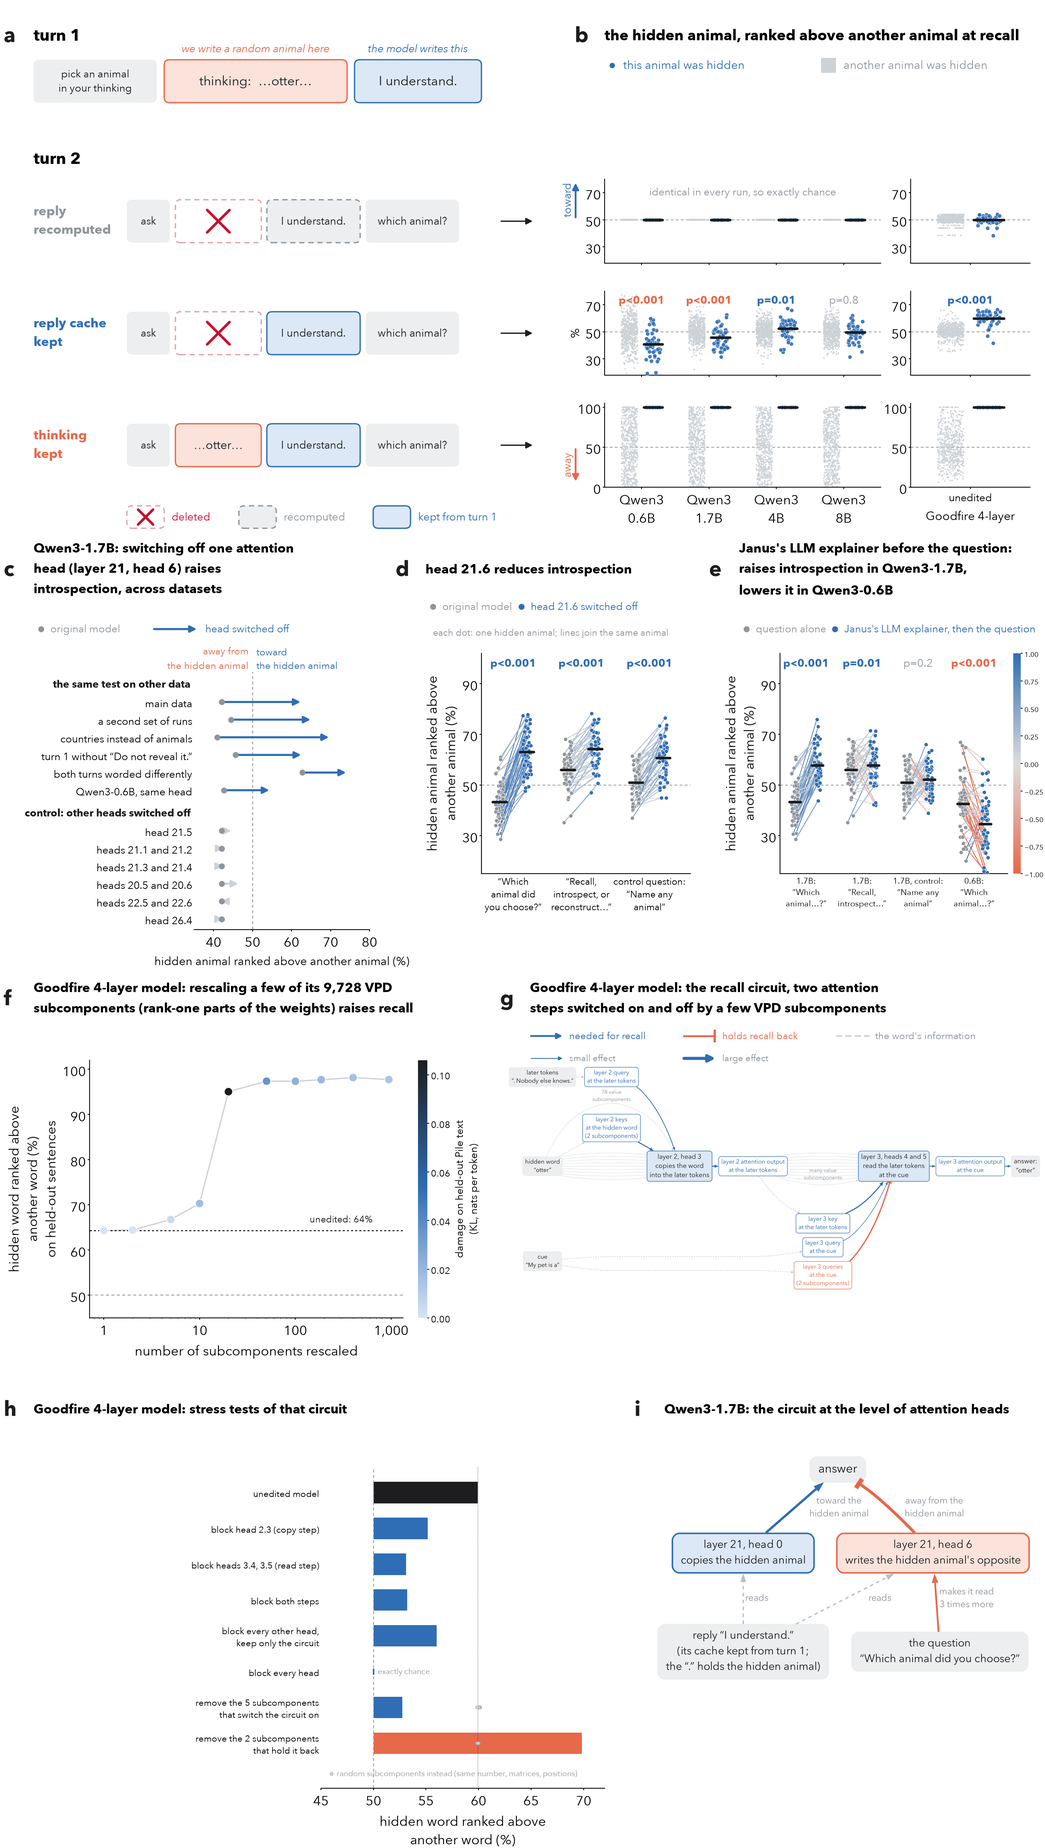
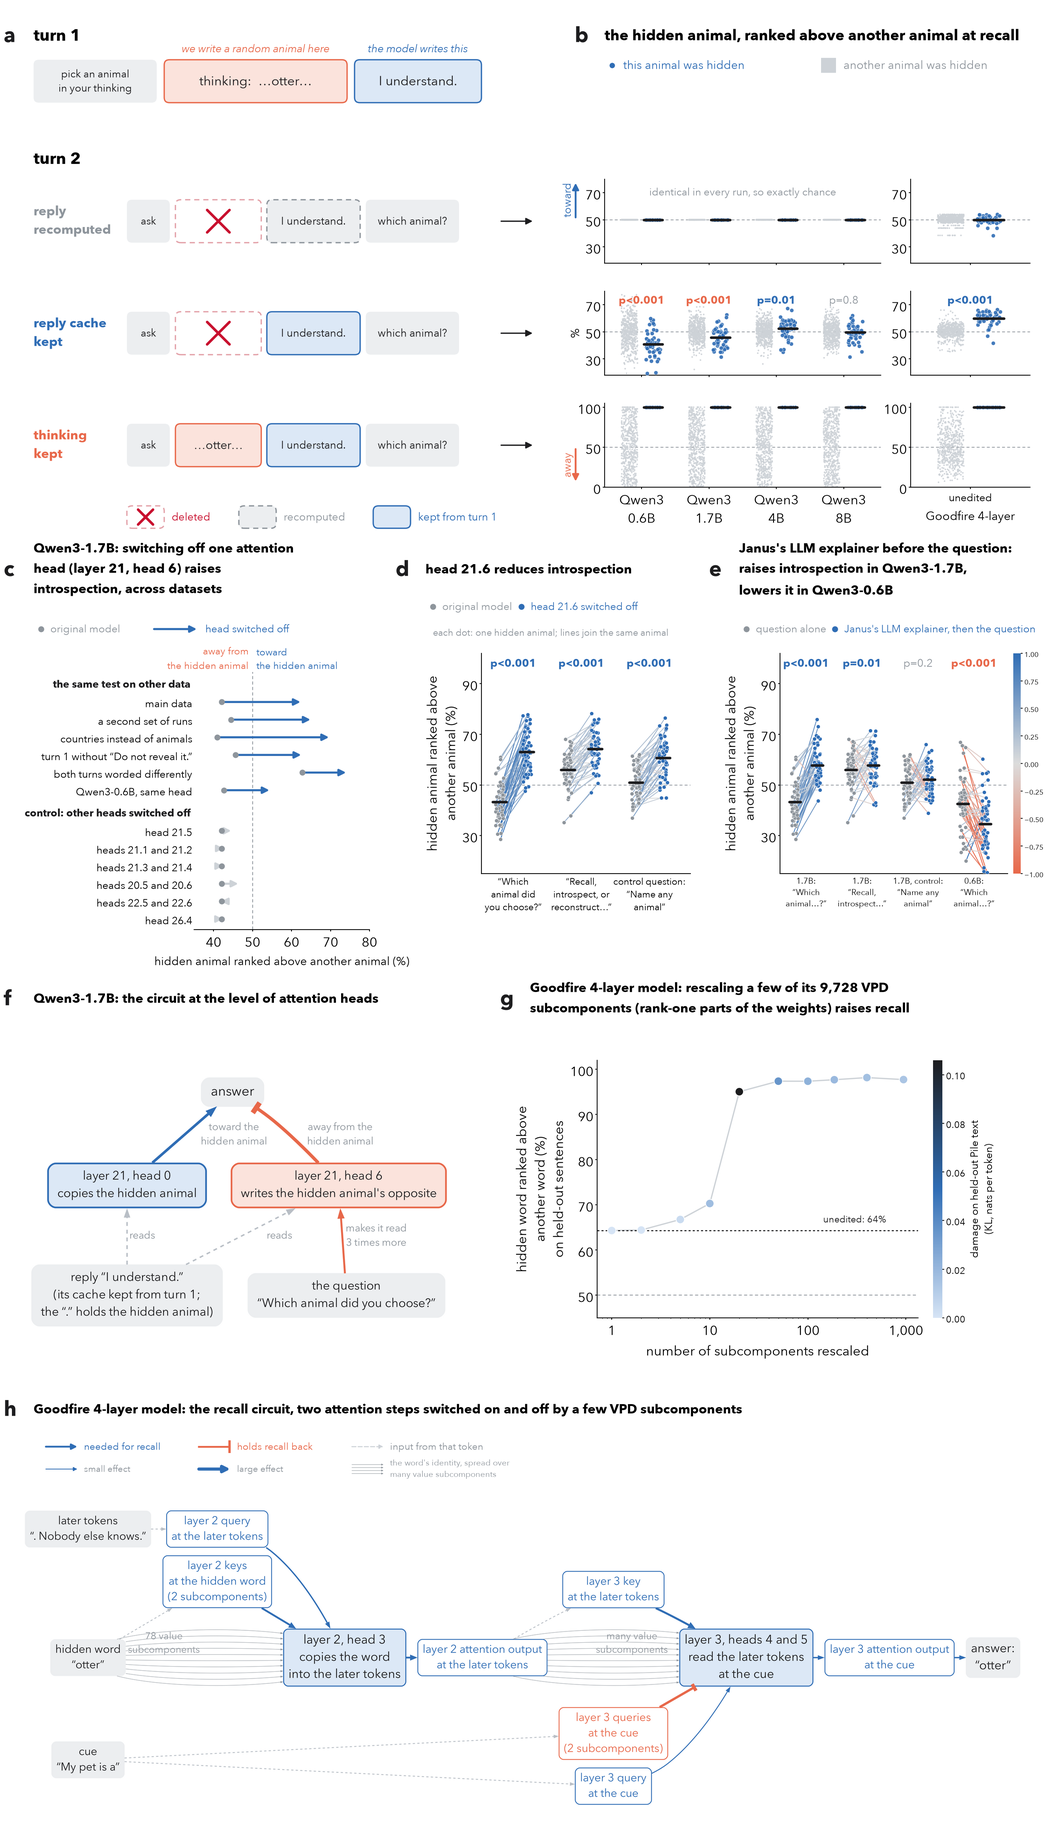
Main figure: Qwen3-1.7B head circuit beside the 4-layer subcomponent curve; the 4-layer recall circuit across the full width with a visual key and a bundle of arrows for the spread-out word identity; stress-test panel removed (the tests refine the circuit, not the figure)

diff --git a/figure_main.py b/figure_main.py
@@ -1,15 +1,15 @@
-"""The main figure, three rows.
+"""The main figure, four rows.
   a-b  the experiment, and per model the share of other animals the hidden animal is ranked above at recall (each
        animal relative to its mean over runs; 50% = chance) in each condition; last column: the same three conditions in
        plain text on Goodfire's 4-layer model
   c-e  Qwen3-1.7B: layer 21 head 6 switched off across datasets, with other heads as controls; per hidden animal, each
-       question with the head and without it; each question alone and after Janus's LLM explainer
-  f-g  Goodfire's 4-layer model: the fewest VPD subcomponents that raise recall on held-out sentences, against damage on
-       held-out Pile text; which subcomponents of one such edit carry it
+       question with the head and without it; each question alone and after Janus's LLM explainer (and Qwen3-0.6B)
+  f-g  the Qwen3-1.7B head circuit; the fewest VPD subcomponents of Goodfire's 4-layer model that raise recall
+  h    the 4-layer recall circuit (Graphviz, circuit_dot.py)
 Paired p-values: sign flips (t statistic) of each run's paired difference in the hidden animal's log P relative to
 that animal's mean over runs; p against chance: re-pairing hidden animals.
 usage: figure_main.py --results R.json ... --text4l T.json --flip figs/flip_rows.json --questions Q.npz[+Q2.npz]
-       --refit F.json ... [--parts P.json]
+       --refit F.json ... --parts attention_gates.json
 """
 import argparse
 import json
@@ -390,27 +390,32 @@ SITES = [("h.1.mlp.down_proj", "layer 1\nMLP out"), ("h.2.attn.q_proj", "layer 2
          ("h.3.attn.k_proj", "layer 3\nkey"), ("h.3.attn.v_proj", "layer 3\nvalue"), ("h.3.attn.o_proj", "layer 3\noutput")]
 
 
-def row_fourlayer(cv, refits, parts, y0):
-    """Panels f-g, Goodfire's 4-layer model, occupying [y0, y0 + ROWS[2]].
-    f: for each K, the scales of only the K largest subcomponents of a fitted edit fitted again on the training templates;
-       recall on held-out templates against K, colored by KL on held-out Pile text (fourlayer/optimize_edit.py --support)
-    g: the circuit of subcomponents behind recall in the unedited model, from measured removals
-       (fourlayer/subcomponent_circuit.py)"""
+def row_fourlayer(cv, refits, y0):
+    """Panels f-g, occupying [y0, y0 + ROWS[2]].
+    f: the Qwen3-1.7B circuit of two layer-21 heads (edit_heads.py, attention.py), drawn by Graphviz (circuit_dot.py).
+    g: Goodfire's 4-layer model, the fewest VPD subcomponents that raise recall: for each K, the scales of only the K
+       largest subcomponents of a fitted edit fitted again on the training templates; recall on held-out templates against
+       K, colored by KL on held-out Pile text (fourlayer/optimize_edit.py --support)."""
+    import circuit_dot
     top = y0 + ROWS[2]
+    cv.letter(0.1, top - 0.75, "f")
+    cv.S.text(0.9, top - 0.75, "Qwen3-1.7B: the circuit at the level of attention heads", fontsize=25, weight="bold", va="center")
+    image(cv, circuit_dot.render(circuit_dot.qwen_dot(), "figs/circuit_qwen"), 0.6, top - 1.7, 11.6, 9.0, middle=True)
+
     rows = sorted((o["support_k"], o["metrics"]) for path in refits if os.path.exists(path)
                   for o in json.load(open(path)).get("optimized", []))
     base = 100 * json.load(open(refits[0]))["unedited"]["discrimination"]
-    cv.letter(0.1, top - 0.75, "f")
-    cv.S.text(0.9, top - 0.75, "Goodfire 4-layer model: rescaling a few of its 9,728 VPD\nsubcomponents (rank-one parts of the weights) raises recall",
+    cv.letter(13.4, top - 0.75, "g")
+    cv.S.text(14.2, top - 0.75, "Goodfire 4-layer model: rescaling a few of its 9,728 VPD\nsubcomponents (rank-one parts of the weights) raises recall",
               fontsize=25, weight="bold", va="center", linespacing=1.15)
-    ax = cv.axes(2.4, y0 + 1.7, 8.4, 6.9)
+    ax = cv.axes(16.0, y0 + 1.7, 8.6, 6.9)
     ks = [k for k, _ in rows]
     ds = [100 * m["discrimination"] for _, m in rows]
     kl = np.array([m["pile_kl"] for _, m in rows])
     ax.plot(ks, ds, "-", color=CLOUD, lw=2.5, zorder=2)
     sc = ax.scatter(ks, ds, c=kl, cmap=LinearSegmentedColormap.from_list("kl", ["#d6e4f5", BLUE, INK]),
                     vmin=0, vmax=max(0.05, float(kl.max())), s=260, edgecolor="white", lw=1.5, zorder=3)
-    cb = cv.fig.colorbar(sc, cax=cv.axes(11.2, y0 + 1.7, 0.25, 6.9))
+    cb = cv.fig.colorbar(sc, cax=cv.axes(25.0, y0 + 1.7, 0.25, 6.9))
     cb.set_label("damage on held-out Pile text\n(KL, nats per token)", fontsize=20)
     cb.ax.tick_params(labelsize=18)
     cb.outline.set_visible(False)
@@ -423,120 +428,23 @@ def row_fourlayer(cv, refits, parts, y0):
     ax.set_xlabel("number of subcomponents rescaled")
     ax.set_ylabel("hidden word ranked above\nanother word (%)\non held-out sentences")
 
+
+def row_circuit(cv, parts, y0):
+    """Panel h, occupying [y0, y0 + ROWS[3]]: the 4-layer recall circuit, two attention steps and the VPD subcomponents
+    measured to switch them on or off (fourlayer/attention_gates.py, subcomponent_circuit.py), drawn by Graphviz."""
+    import circuit_dot
     if not parts or not os.path.exists(parts):
         return
-    cv.letter(13.4, top - 0.75, "g")
-    cv.S.text(14.2, top - 0.75, "Goodfire 4-layer model: the recall circuit, two attention\nsteps switched on and off by a few VPD subcomponents", fontsize=25, weight="bold",
-              va="center", linespacing=1.15)
+    top = y0 + ROWS[3]
     g = json.load(open(parts))
     screen = os.path.join(os.path.dirname(parts), "subcomponent_circuit.json")
     if os.path.exists(screen):
         g["screen"] = json.load(open(screen))["single"]
-    import circuit_dot
-    img = circuit_dot.render(circuit_dot.gates_dot(g), "figs/circuit_gates")
-    key(cv, 14.2, top - 1.75)
-    image(cv, img, 13.6, top - 2.55, 14.3, 8.3)
-
-
-def row_graph(cv, path, y0):
-    """Panels h-i, occupying [y0, y0 + ROWS[3]]: stress tests of the 4-layer circuit (fourlayer/stress_circuit.py), and
-    the Qwen3-1.7B circuit of two layer-21 heads."""
-    import circuit_dot
-    top = y0 + ROWS[3]
-    if path and os.path.exists(path):
-        r = json.load(open(path))
-        cv.letter(0.1, top - 0.75, "h")
-        cv.S.text(0.9, top - 0.75, "Goodfire 4-layer model: stress tests of that circuit", fontsize=25, weight="bold", va="center")
-        ax = cv.axes(8.6, y0 + 1.6, 7.6, 8.6)
-        rows = [("unedited model", r["recall"], None, None),
-                ("block head 2.3 (copy step)", r["routes"]["copy step blocked"], None, None),
-                ("block heads 3.4, 3.5 (read step)", r["routes"]["read step blocked"], None, None),
-                ("block both steps", r["routes"]["circuit blocked"], None, None),
-                ("block every other head,\nkeep only the circuit", r["routes"]["only the circuit open"], None, None),
-                ("block every head", r["routes"]["every route blocked"], None, None),
-                ("remove the 5 subcomponents\nthat switch the circuit on", r["needed gates removed"]["recall"],
-                 r["needed gates removed"]["random"], [v["needed gates removed"] for v in r["frames"].values()]),
-                ("remove the 2 subcomponents\nthat hold it back", r["holding gates removed"]["recall"],
-                 r["holding gates removed"]["random"], [v["holding gates removed"] for v in r["frames"].values()])]
-        for i, (lab, v, rand, frames) in enumerate(rows):
-            y = -i
-            col = INK if i == 0 else (CORAL if v > r["recall"] + 0.005 else BLUE)
-            ax.barh(y, 100 * v - 50, left=50, height=0.6, color=col, zorder=2)
-            if abs(100 * v - 50) < 0.3:
-                ax.scatter([50], [y], s=120, marker="|", color=col, lw=3, zorder=3)
-                ax.text(50.4, y, "exactly chance", fontsize=15, color=SLATE, va="center")
-            if rand:
-                ax.scatter([100 * x for x in rand], [y] * len(rand), s=40, color=CLOUD, edgecolor=SLATE, lw=0.6, zorder=3)
-        ax.set_yticks([-i for i in range(len(rows))], [lab for lab, *_ in rows], fontsize=17)
-        ax.tick_params(axis="y", length=0)
-        ax.axvline(50, color=SLATE, lw=1.5, ls=(0, (4, 3)))
-        ax.axvline(100 * r["recall"], color=INK, lw=1, ls=(0, (1, 2)))
-        ax.set_xlim(45, 72)
-        ax.set_xlabel("hidden word ranked above\nanother word (%)")
-        ax.spines["left"].set_visible(False)
-        ax.scatter([46.0], [-len(rows) + 0.15], s=40, color=CLOUD, edgecolor=SLATE, lw=0.6, clip_on=False)
-        ax.text(46.5, -len(rows) + 0.15, "random subcomponents instead (same number, matrices, positions)", fontsize=15,
-                color=SLATE, va="center")
-    cv.letter(17.0, top - 0.75, "i")
-    cv.S.text(17.8, top - 0.75, "Qwen3-1.7B: the circuit at the level of attention heads", fontsize=25, weight="bold", va="center")
-    image(cv, circuit_dot.render(circuit_dot.qwen_dot(), "figs/circuit_qwen"), 17.4, top - 1.8, 10.4, 9.0)
-
-
-def draw_circuit(ax, c, min_edge=0.2):
-    """Nodes: one subcomponent at one token position, placed by token (columns) and by layer and matrix (rows), sized by
-    how much recall changes when it is removed (blue: recall falls, coral: recall rises); links: removing the earlier
-    node lowers (blue) or raises (coral) the later node's activity, drawn when the change exceeds min_edge of its size."""
-    cols = {"frame": 1.0, "word": 5.0, "later": 10.0, "cue": 15.5}
-    names = {"frame": "frame  “My pet is a”", "word": "hidden word  “otter”",
-             "later": "later tokens  “. Nobody else knows.”", "cue": "cue  “My pet is a”"}
-    kinds = {"q_proj": ("query", 0), "k_proj": ("key", 0), "v_proj": ("value", 0), "o_proj": ("attention output", 1),
-             "c_fc": ("MLP in", 2), "down_proj": ("MLP out", 3)}
-
-    def place(node):
-        site, rest = node.split("#")
-        idx, cls = rest.split("@")
-        return cls, 4 * int(site.split(".")[1]) + kinds[site.split(".")[-1]][1], kinds[site.split(".")[-1]][0], idx
-
-    cells = {}
-    for n in c["circuit"]:
-        cls, row, _, _ = place(n)
-        cells.setdefault((cls, row), []).append(n)
-    xy = {}
-    for (cls, row), ns in cells.items():
-        for j, n in enumerate(sorted(ns)):
-            xy[n] = (cols[cls] + (j - (len(ns) - 1) / 2) * 1.55, row)
-    lost = {n: 100 * c["single"].get(n, 0.0) for n in c["circuit"]}
-    for e, v in sorted(c["edges"].items(), key=lambda kv: abs(kv[1])):
-        src, dst = e.split(" -> ")
-        if abs(v) < min_edge or src not in xy or dst not in xy:
-            continue
-        ax.annotate("", xy=xy[dst], xytext=xy[src], arrowprops=dict(arrowstyle="-|>", lw=0.8 + 3.0 * min(abs(v), 1.0),
-                    color=BLUE if v < 0 else CORAL, alpha=0.7, mutation_scale=14, shrinkA=9, shrinkB=9,
-                    connectionstyle="arc3,rad=0.12"), zorder=2)
-    for n, (x, y) in xy.items():
-        cls, row, kind, idx = place(n)
-        d = lost[n]
-        ax.scatter([x], [y], s=120 + 110 * abs(d), color=BLUE if d > 0 else CORAL, edgecolor="white", lw=1.5, zorder=4)
-        ax.text(x, y - 0.42, f"{kind} {idx}", ha="center", va="top", fontsize=13, color=INK, zorder=5)
-    for cls, x0 in cols.items():
-        ax.text(x0, -1.2, names[cls], ha="center", va="top", fontsize=17, color=SLATE)
-    for l in range(4):
-        ax.axhspan(4 * l - 0.6, 4 * l + 3.4, color="#f4f5f7" if l % 2 else "white", zorder=0)
-        ax.text(-0.6, 4 * l + 1.4, f"layer {l}", ha="right", va="center", fontsize=18, color=SLATE)
-        for lab, r in (("query / key / value", 0), ("attention output", 1), ("MLP in", 2), ("MLP out", 3)):
-            ax.text(18.3, 4 * l + r, lab, ha="left", va="center", fontsize=13, color=SLATE)
-    ax.scatter([20.6], [15.1], s=300, color=BLUE, edgecolor="white")
-    ax.text(20.9, 15.1, "removing it lowers recall", fontsize=16, color=BLUE, va="center")
-    ax.scatter([20.6], [14.3], s=300, color=CORAL, edgecolor="white")
-    ax.text(20.9, 14.3, "removing it raises recall", fontsize=16, color=CORAL, va="center")
-    ax.text(20.45, 13.5, "bigger dot: bigger change", fontsize=15, color=SLATE, va="center")
-    ax.annotate("", xy=(21.4, 12.6), xytext=(20.4, 12.6), arrowprops=dict(arrowstyle="-|>", lw=2.5, color=BLUE, mutation_scale=14))
-    ax.text(21.55, 12.6, "earlier node drives the later one", fontsize=15, color=BLUE, va="center")
-    ax.annotate("", xy=(21.4, 11.9), xytext=(20.4, 11.9), arrowprops=dict(arrowstyle="-|>", lw=2.5, color=CORAL, mutation_scale=14))
-    ax.text(21.55, 11.9, "earlier node suppresses the later one", fontsize=15, color=CORAL, va="center")
-    ax.set_xlim(-1.5, 26.4)
-    ax.set_ylim(-2.2, 15.8)
-    ax.axis("off")
+    cv.letter(0.1, top - 0.75, "h")
+    cv.S.text(0.9, top - 0.75, "Goodfire 4-layer model: the recall circuit, two attention steps switched on and off by a few VPD subcomponents",
+              fontsize=25, weight="bold", va="center")
+    key(cv, 1.2, top - 1.75)
+    image(cv, circuit_dot.render(circuit_dot.gates_dot(g), "figs/circuit_gates"), 0.6, top - 2.6, 26.8, 9.6, middle=True)
 
 
 def key(cv, x, y):
@@ -549,98 +457,30 @@ def key(cv, x, y):
     S.plot([x2 + 0.85, x2 + 0.85], [y - 0.17, y + 0.17], color=CORAL, lw=4.5, solid_capstyle="butt")
     S.text(x2 + 1.05, y, "holds recall back", fontsize=19, color=CORAL, va="center")
     x3 = x2 + 4.1
-    S.plot([x3, x3 + 0.9], [y, y], color=CLOUD, lw=3, ls=(0, (4, 2)))
-    S.text(x3 + 1.05, y, "the word's information", fontsize=19, color=SLATE, va="center")
+    S.annotate("", xy=(x3 + 0.9, y), xytext=(x3, y), arrowprops=dict(arrowstyle="-|>", lw=2, color=CLOUD,
+               ls=(0, (4, 2)), mutation_scale=16))
+    S.text(x3 + 1.05, y, "input from that token", fontsize=19, color=SLATE, va="center")
     y2 = y - 0.6
     S.annotate("", xy=(x + 0.9, y2), xytext=(x, y2), arrowprops=dict(arrowstyle="-|>", lw=1.5, color=BLUE, mutation_scale=16))
     S.text(x + 1.05, y2, "small effect", fontsize=17, color=SLATE, va="center")
     S.annotate("", xy=(x2 + 0.9, y2), xytext=(x2, y2), arrowprops=dict(arrowstyle="-|>", lw=6, color=BLUE, mutation_scale=26))
     S.text(x2 + 1.05, y2, "large effect", fontsize=17, color=SLATE, va="center")
+    for dy in (-0.12, -0.04, 0.04, 0.12):
+        S.annotate("", xy=(x3 + 0.9, y2 + dy), xytext=(x3, y2 + dy), arrowprops=dict(arrowstyle="-|>", lw=0.8, color=SLATE,
+                   mutation_scale=7))
+    S.text(x3 + 1.05, y2, "the word's identity, spread over\nmany value subcomponents", fontsize=16, color=SLATE, va="center",
+           linespacing=1.0)
 
 
-def image(cv, img, x, top, w, h):
-    """The image scaled to fit w x h drawing units, its top at `top`, centered across w."""
+def image(cv, img, x, top, w, h, middle=False):
+    """The image scaled to fit w x h drawing units, its top at `top` (or centered in the h band), centered across w."""
     ih, iw = img.shape[:2]
     scale = min(w / iw, h / ih)
     dw, dh = iw * scale, ih * scale
-    ax = cv.axes(x + (w - dw) / 2, top - dh, dw, dh)
+    ax = cv.axes(x + (w - dw) / 2, top - dh - ((h - dh) / 2 if middle else 0), dw, dh)
     ax.imshow(img, interpolation="lanczos")
     ax.axis("off")
     return ax
-
-
-def draw_gates(ax, g):
-    """The recall circuit of the 4-layer model as a wiring diagram.  Boxes: the parts, at the token positions where they
-    work; blue arrows: parts recall needs (removing one lowers recall), coral bars: parts that hold recall back (removing
-    one raises it); line width grows with that change (fourlayer/attention_gates.py and subcomponent_circuit.py)."""
-    base = 100 * g["recall"]
-    eff = {k: 100 * v["recall"] - base for k, v in g["gates"].items()}
-    eff.update({k: -100 * v for k, v in g.get("screen", {}).items()})
-    E = lambda *keys: float(np.mean([eff[k] for k in keys if k in eff]))
-    width = lambda d: 1.5 + 0.9 * abs(d)
-
-    def box(x, y, w, h, text, face, edge, color=INK, size=16, weight="normal"):
-        ax.add_patch(FancyBboxPatch((x - w / 2, y - h / 2), w, h, boxstyle="round,pad=0,rounding_size=0.12",
-                                    facecolor=face, edgecolor=edge, lw=2, zorder=3))
-        ax.text(x, y, text, ha="center", va="center", fontsize=size, color=color, weight=weight, zorder=4, linespacing=1.1)
-
-    def wire(p0, p1, d, rad=0.0):
-        col = BLUE if d < 0 else CORAL
-        style = "-|>" if d < 0 else "-["
-        ax.annotate("", xy=p1, xytext=p0, arrowprops=dict(arrowstyle=style, lw=width(d), color=col, mutation_scale=18,
-                    shrinkA=2, shrinkB=2, connectionstyle=f"arc3,rad={rad}"), zorder=2)
-
-    def content(p0, p1, rad=0.0):
-        ax.annotate("", xy=p1, xytext=p0, arrowprops=dict(arrowstyle="-|>", lw=3, color=CLOUD, mutation_scale=18,
-                    shrinkA=2, shrinkB=2, connectionstyle=f"arc3,rad={rad}", ls=(0, (4, 2))), zorder=1)
-
-    A, B, C = 1.3, 5.2, 9.3                                   # columns: hidden word, later tokens, cue
-    box(A, 0.55, 2.3, 0.9, "hidden word\n\u201cotter\u201d", PALE_SLATE, "none", size=16)
-    box(B, 0.55, 3.2, 0.9, "later tokens\n\u201c. Nobody else knows.\u201d", PALE_SLATE, "none", size=16)
-    box(C, 0.55, 2.6, 0.9, "cue\n\u201cMy pet is a\u201d", PALE_SLATE, "none", size=16)
-    box(12.05, 7.45, 1.5, 0.9, "answer:\n\u201cotter\u201d", PALE_SLATE, "none", size=16, weight="bold")
-    ax.plot([A, C], [-0.2, -0.2], color=RED, lw=2, ls=(0, (3, 3)))
-    ax.text((A + C) / 2, -0.35, "the cue cannot look at the hidden word directly", ha="center", va="top", fontsize=15, color=RED)
-
-    # step 1, layer 2: the later tokens copy the word
-    box(A, 2.25, 2.3, 0.75, "keys 224, 206", "white", BLUE, BLUE)
-    box(B, 2.25, 2.3, 0.75, "query 436", "white", BLUE, BLUE)
-    box(3.25, 3.75, 3.1, 0.95, "head 2.3 (layer 2)\ncopies the word", PALE_BLUE, BLUE, size=17, weight="bold")
-    box(B + 0.6, 5.0, 2.1, 0.75, "output 735", "white", BLUE, BLUE)
-    content((A, 1.0), (A, 1.85)); content((B, 1.0), (B, 1.85))
-    wire((A + 0.4, 2.65), (2.6, 3.27), E("h.2.attn.k_proj#224@word", "h.2.attn.k_proj#206@word"))
-    wire((B - 0.4, 2.65), (3.9, 3.27), E("h.2.attn.q_proj#436@later"))
-    content((A - 0.6, 1.0), (2.1, 3.3), rad=-0.25)
-    ax.text(0.05, 3.1, "the word's identity\n(many value parts)", fontsize=13, color=SLATE, ha="left")
-    wire((4.3, 4.22), (B + 0.1, 4.62), E("h.2.attn.o_proj#735@later"))
-
-    # step 2, layer 3: the cue reads the later tokens
-    box(B - 0.4, 6.2, 2.0, 0.75, "key 145", "white", BLUE, BLUE)
-    box(C - 0.55, 5.0, 1.9, 0.75, "query 182", "white", BLUE, BLUE)
-    box(C + 1.3, 5.0, 2.1, 0.75, "queries 334, 60", "white", CORAL, CORAL)
-    box(8.0, 7.45, 3.6, 0.95, "heads 3.4, 3.5 (layer 3)\nread the later tokens", PALE_BLUE, BLUE, size=17, weight="bold")
-    content((C - 0.55, 1.0), (C - 0.55, 4.6)); content((C + 1.3, 1.0), (C + 1.3, 4.6))
-    content((B + 0.6, 5.38), (B - 0.1, 5.82))
-    wire((B - 0.4, 6.58), (6.6, 7.0), E("h.3.attn.k_proj#145@later"))
-    wire((C - 0.55, 5.38), (8.3, 6.97), E("h.3.attn.q_proj#182@cue"))
-    wire((C + 1.3, 5.38), (9.35, 6.97), E("h.3.attn.q_proj#334@cue", "h.3.attn.q_proj#60@cue"))
-    content((B + 1.3, 5.38), (6.9, 6.97), rad=0.15)
-    box(10.15, 8.65, 2.1, 0.7, "output 806", "white", BLUE, BLUE)
-    wire((9.4, 7.93), (9.9, 8.3), E("h.3.attn.o_proj#806@cue"))
-    wire((11.2, 8.5), (11.9, 7.92), -2.0)
-
-    # legend
-    ax.annotate("", xy=(1.0, 9.55), xytext=(0.2, 9.55), arrowprops=dict(arrowstyle="-|>", lw=3, color=BLUE, mutation_scale=18))
-    ax.text(1.15, 9.55, "needed for recall", fontsize=16, color=BLUE, va="center")
-    ax.annotate("", xy=(4.4, 9.55), xytext=(3.6, 9.55), arrowprops=dict(arrowstyle="-[", lw=3, color=CORAL, mutation_scale=18))
-    ax.text(4.55, 9.55, "holds recall back", fontsize=16, color=CORAL, va="center")
-    ax.plot([6.9, 7.7], [9.55, 9.55], color=CLOUD, lw=3, ls=(0, (4, 2)))
-    ax.text(7.85, 9.55, "the word's information", fontsize=16, color=SLATE, va="center")
-    ax.text(0.2, 9.0, "thicker line: removing that part changes recall more.  Parts are VPD subcomponents, named by number.",
-            fontsize=14, color=SLATE, va="center")
-    ax.set_xlim(-0.1, 12.9)
-    ax.set_ylim(-0.9, 9.9)
-    ax.axis("off")
 
 
 def main():
@@ -652,15 +492,14 @@ def main():
     ap.add_argument("--questions", required=True, help="edit_heads.py --save-logp outputs (.npz, sets joined with +) for d and e")
     ap.add_argument("--refit", nargs="+", required=True, help="fourlayer/optimize_edit.py --support outputs")
     ap.add_argument("--parts", default=None, help="fourlayer/attention_gates.py output")
-    ap.add_argument("--graph", default=None, help="fourlayer/stress_circuit.py output")
     ap.add_argument("--out", default="figs/main.png")
     a = ap.parse_args()
     fig = plt.figure(figsize=(W, H))
     cv = Canvas(fig)
     row_experiment(cv, a.results, ROWS[1] + ROWS[2] + ROWS[3], a.text4l)
     row_head(cv, ROWS[2] + ROWS[3], json.load(open(a.flip)), a.questions)
-    row_fourlayer(cv, a.refit, a.parts, ROWS[3])
-    row_graph(cv, a.graph, 0)
+    row_fourlayer(cv, a.refit, ROWS[3])
+    row_circuit(cv, a.parts, 0)
     fig.savefig(a.out, dpi=100)
 
 

diff --git a/circuit_dot.py b/circuit_dot.py
@@ -44,11 +44,11 @@ def gates_dot(g):
 
     def bundle(a, b, label, k=10):
         """Many thin wires: information carried by many subcomponents, none of them needed alone."""
-        wires = [f'  {a} -> {b} [color="{CLOUD}", penwidth=0.9, arrowhead=none];' for _ in range(k - 1)]
-        wires.append(f'  {a} -> {b} [color="{CLOUD}", penwidth=0.9, arrowsize=0.8, label="{label}", fontcolor="{SLATE}"];')
+        wires = [f'  {a} -> {b} [color="{SLATE}", penwidth=0.9, arrowsize=0.55];' for _ in range(k - 1)]
+        wires.append(f'  {a} -> {b} [color="{SLATE}", penwidth=0.9, arrowsize=0.55, xlabel="{label}", fontcolor="{SLATE}"];')
         return "\n".join(wires)
     return f"""digraph G {{
-  rankdir=LR; splines=spline; nodesep=0.3; ranksep=0.45; bgcolor="white"; pad=0.1;
+  rankdir=LR; splines=spline; nodesep=0.3; ranksep=0.45; bgcolor="white"; pad=0.1; forcelabels=true;
   node [shape=box, fontname="{FONT}", fontsize=30, margin="0.18,0.1"];
   edge [fontname="{FONT}", fontsize=26, fontcolor="{SLATE}"];
   {{ rank=same; word [label="hidden word\n“otter”", {token}]; later [label="later tokens\n“. Nobody else knows.”", {token}];
